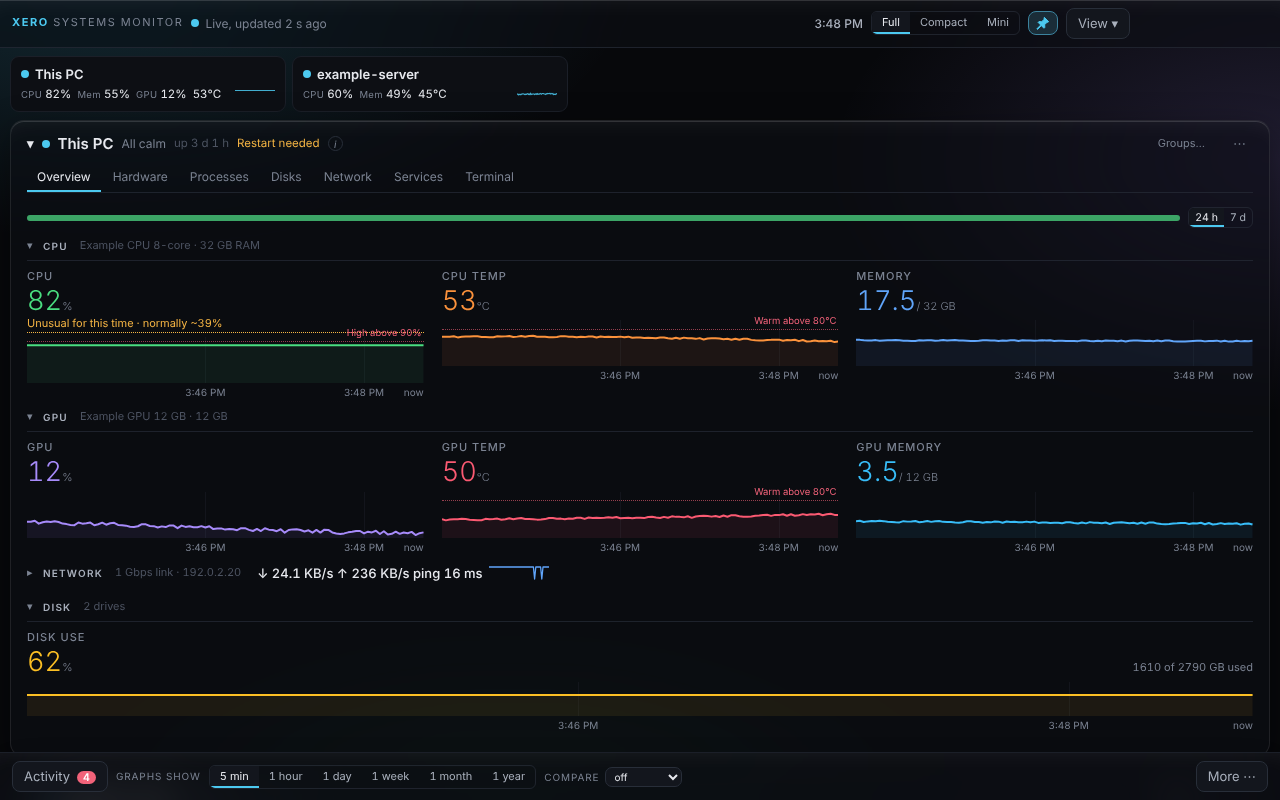
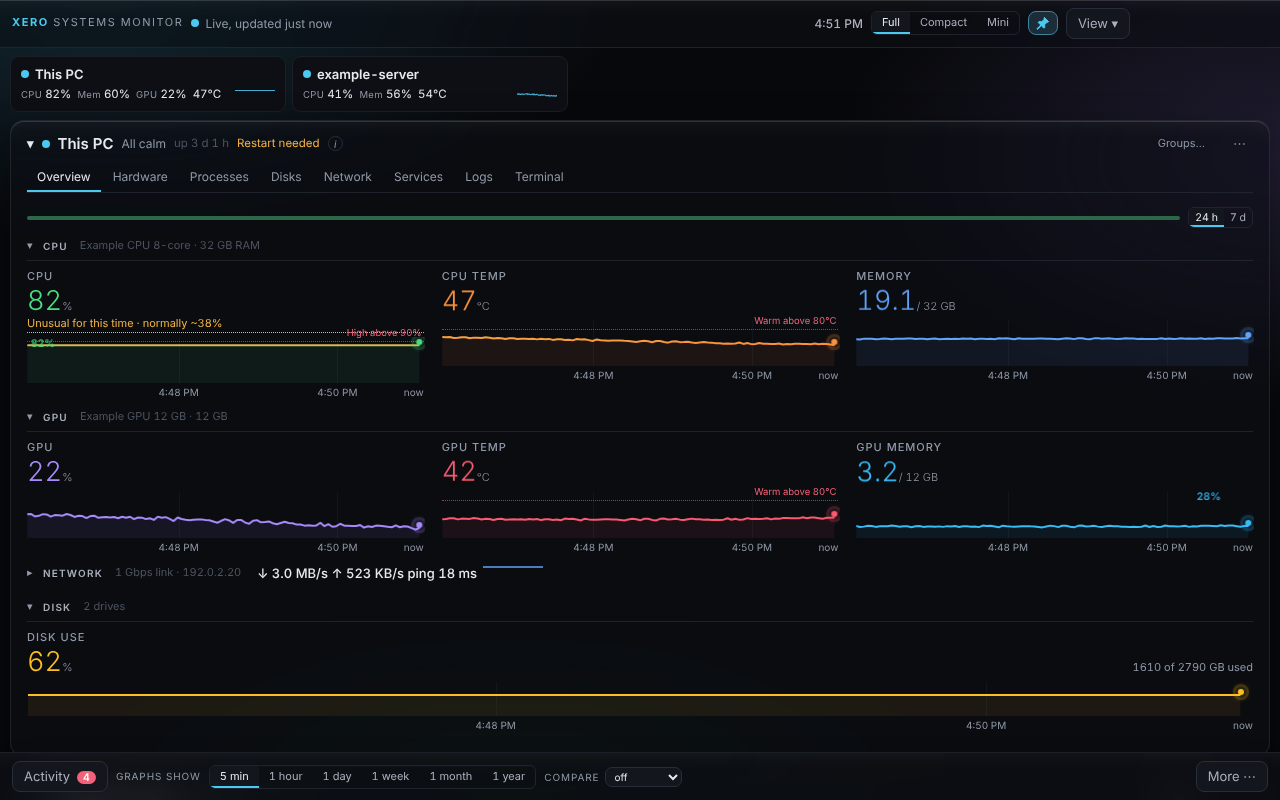
Motion pack, graphs: Motion setting, rolling numbers, sliding points, glow, peak label, heat line, range stretch
Claude-Session: https://claude.ai/code/session_0135roDSyKmVbufXTNSNLj3P

diff --git a/app/src/Chart.jsx b/app/src/Chart.jsx
@@ -6,6 +6,9 @@ import { clipSeries, zoomRange, isClick } from "./graphTools.js";
 import { setZoom } from "./graphView.js";
 import { seriesPaths } from "./theme/graphStyle.js";
 import useGraphLook from "./theme/useGraphLook.js";
+import useChartFx from "./useChartFx.js";
+import ChartMarks from "./ChartMarks.jsx";
+import { heatStops, newest } from "./chartFx.js";
 // Full-size graph with hover readout. The hover is moved straight in the DOM (no React render per mouse move).
 function nearest(pts, t) {
   let lo = 0, hi = pts.length - 1;
@@ -13,7 +16,7 @@ function nearest(pts, t) {
   return Math.abs(pts[lo][0] - t) <= Math.abs(pts[hi][0] - t) ? pts[lo] : pts[hi];
 }
 function Chart({ series, t0, t1, max, unit = "", fmt, thr, thrLabel, range, marks = [], group, title, cmp, cmpLabel = "", zoomable = true, live = true, onPick }) {
-  const W = 600, H = 150, look = useGraphLook(), root = useRef(null), x = useRef(null), sel = useRef(null), raf = useRef(0), cx = useRef(0), cy = useRef(0), downAt = useRef(null);
+  const W = 600, H = 150, look = useGraphLook(), root = useRef(null), x = useRef(null), sel = useRef(null), raf = useRef(0), cx = useRef(0), cy = useRef(0), downAt = useRef(null), svg = useRef(null), layer = useRef(null);
   const top = useMemo(() => max || Math.max(1, ...series.flatMap(s => s.pts.map(p => p[1])), ...(cmp || []).map(p => p[1])) * 1.15, [series, max, cmp]);
   const X = t => Math.max(0, Math.min(W, ((t - t0) / (t1 - t0)) * W)).toFixed(1);
   const line = pts => pts.map(([t, v], i) => (i ? "L" : "M") + X(t) + " " + (H - Math.min(1, v / top) * H).toFixed(1)).join("");
@@ -23,7 +26,9 @@ function Chart({ series, t0, t1, max, unit = "", fmt, thr, thrLabel, range, mark
   const f = fmt || (v => v.toFixed(0) + unit);
   const ticks = axisTicks(t0, t1, 3), pct = t => ((t - t0) / (t1 - t0)) * 100;
   const latest = useRef(); latest.current = { series, f, t0, t1, cmp, cmpLabel };
-  const id = useId(), g = group || id, color0 = series[0]?.color;
+  const id = useId(), g = group || id, color0 = series[0]?.color, gid = "heat" + id.replace(/\W/g, "");
+  const heat = series.length === 1 && look.style !== "bars" && thr != null ? heatStops(thr, top) : null, tip = series[0]?.pts.length ? newest(series[0].pts, t0, t1) : null;   // a single line turns amber toward its limit and red above it
+  useChartFx([svg, layer], { t0, t1, pts: series[0]?.pts, last: tip?.v, thr, ready: !!paths[0], root, layer });
   useEffect(() => join(g, id, {   // this graph's side of the shared hover
     title: title || series[0]?.name, color: color0, el: () => root.current,
     value: t => { const { series: ss, f: ff } = latest.current; const hit = ss.filter(s => s.pts.length).map(s => (ss.length > 1 ? s.name + " " : "") + ff(nearest(s.pts, t)[1])); const c = latest.current.cmp; if (c?.length && hit.length && t >= c[0][0] && t <= c[c.length - 1][0]) hit.push(latest.current.cmpLabel + " " + ff(nearest(c, t)[1])); return hit.length ? hit.join(" · ") : null; },
@@ -56,11 +61,13 @@ function Chart({ series, t0, t1, max, unit = "", fmt, thr, thrLabel, range, mark
       <div className={"chart" + (onPick ? " pick" : "")} ref={root} onMouseMove={move} onMouseLeave={leave} onMouseDown={e => { downAt.current = [e.clientX, e.clientY]; down(e); }} onClick={pick} onDoubleClick={() => zoomable && setZoom(g, null)} role="img" aria-label={series.map(s => s.name).join(" and ")}>
         {ticks.map(t => <i key={t} className="vg" style={{ left: pct(t) + "%" }} />)}
         {[.5, 1].map(q => <div key={q} className="gl" style={{ bottom: q * 100 + "%" }}><span>{f(top * q).replace(/\.\d/, "")}</span></div>)}
-        <svg viewBox={`0 0 ${W} ${H}`} preserveAspectRatio="none">
+        <svg ref={svg} viewBox={`0 0 ${W} ${H}`} preserveAspectRatio="none">
+          {heat && <defs><linearGradient id={gid} gradientUnits="userSpaceOnUse" x1="0" y1={H} x2="0" y2="0">{heat.map(([o, c], i) => <stop key={i} offset={o} style={{ stopColor: c === "own" ? color0 : c === "warn" ? "var(--warn)" : "var(--bad)" }} />)}</linearGradient></defs>}
           {paths[0] && paths[0].a && (series.length === 1 || look.style === "area") && [...series].reverse().map((s, i) => { const p = paths[series.length - 1 - i]; return p && <path key={s.name} d={p.a} style={{ fill: s.color, stroke: "none", opacity: "var(--area-op)" }} />; })}
           {cmpPath && <path className="cmp" d={cmpPath} style={{ stroke: series[0].color }} />}
-          {[...series].reverse().map((s, i) => { const p = paths[series.length - 1 - i]; return p && <path key={s.name} d={p.l} className={look.style === "bars" ? "bars" : undefined} style={look.style === "bars" ? { fill: s.color } : { stroke: s.color }} />; })}
+          {[...series].reverse().map((s, i) => { const p = paths[series.length - 1 - i]; return p && <path key={s.name} d={p.l} className={look.style === "bars" ? "bars" : undefined} style={look.style === "bars" ? { fill: s.color } : { stroke: heat ? `url(#${gid})` : s.color }} />; })}
         </svg>
+        <ChartMarks layer={layer} series={series} t0={t0} t1={t1} top={top} f={f} />
         {thr != null && thr <= top && <div className="thr" style={{ bottom: (thr / top) * 100 + "%" }}><span>{thrLabel}</span></div>}
         {marks.map((m, i) => m.t >= t0 && m.t <= t1 && <div key={i} className={"ev " + (m.kind || "")} style={{ left: ((m.t - t0) / (t1 - t0)) * 100 + "%" }}><b data-tip={m.text} /></div>)}
         <div className="x" ref={x} /><div className="sel" ref={sel} />

diff --git a/app/src/theme/model.js b/app/src/theme/model.js
@@ -5,7 +5,8 @@ import { FONT_IDS, fontStack } from "./fonts.js";
 //     colors: { acc, bg, card, fg, dim, line, warn, bad, good, cpu, temp, ... },
 //     graph:  { style, width, grid, smooth, limits },
 //     size:   { card, density, scale },
-//     glass:  "off" | "subtle" | "full" }
+//     glass:  "off" | "subtle" | "full",
+//     motion: "off" | "subtle" | "full" }
 export const TEXT_LEVELS = [
   { id: "machine", label: "Machine name", size: 15 }, { id: "section", label: "Section header", size: 10 }, { id: "group", label: "Group header", size: 10 },
   { id: "number", label: "Big numbers", size: 16 }, { id: "label", label: "Labels", size: 13 }, { id: "small", label: "Small text", size: 11 },
@@ -18,6 +19,9 @@ export const CARD_SIZES = [["small", "Small"], ["medium", "Medium"], ["large", "
 export const DENSITIES = [["compact", "Compact"], ["comfortable", "Comfortable"], ["spacious", "Spacious"]];
 export const GLASS_LEVELS = [["off", "Off (flat)"], ["subtle", "Subtle"], ["full", "Full"]];
 export const DEFAULT_GLASS = "subtle";
+// Motion: Full is every effect, Subtle keeps only the quick functional ones (folds, slides), Off is none. The window also stops all motion when Windows asks for less.
+export const MOTION_LEVELS = [["full", "Full"], ["subtle", "Subtle"], ["off", "Off"]];
+export const DEFAULT_MOTION = "full";
 export const DEFAULT_GRAPH = Object.freeze({ style: "line", width: 2, grid: true, smooth: false, limits: true });
 export const DEFAULT_SIZE = Object.freeze({ card: "medium", density: "comfortable", scale: 1 });
 const GRAPH_K = { small: 0.75, medium: 1, large: 1.4 }, DENS_K = { compact: 0.85, comfortable: 1, spacious: 1.2 }, AREA_OP = { line: 0.08, area: 0.3, bars: 0 };
@@ -62,13 +66,14 @@ export function normLook(raw) {
   const s = r.size || {}, size = keep({ card: oneOf(s.card, CARD_SIZES.map(x => x[0])), density: oneOf(s.density, DENSITIES.map(x => x[0])), scale: num(s.scale, SCALE_MIN, SCALE_MAX) });
   for (const [k, v] of [["text", text], ["colors", colors], ["graph", graph], ["size", size]]) if (nonEmpty(v)) out[k] = v;
   const glass = oneOf(r.glass, GLASS_LEVELS.map(x => x[0])); if (glass) out.glass = glass;
+  const motion = oneOf(r.motion, MOTION_LEVELS.map(x => x[0])); if (motion) out.motion = motion;
   return out;
 }
 // `over` on top of `base`, section by section (a text level is merged field by field).
 export function mergeLook(base, over) {
   const a = normLook(base), b = normLook(over), text = { ...a.text };
   for (const id of Object.keys(b.text || {})) text[id] = { ...text[id], ...b.text[id] };
-  return normLook({ text, colors: { ...a.colors, ...b.colors }, graph: { ...a.graph, ...b.graph }, size: { ...a.size, ...b.size }, glass: b.glass ?? a.glass });
+  return normLook({ text, colors: { ...a.colors, ...b.colors }, graph: { ...a.graph, ...b.graph }, size: { ...a.size, ...b.size }, glass: b.glass ?? a.glass, motion: b.motion ?? a.motion });
 }
 // A copy of `look` with the value at `path` set; undefined removes it and tidies empty parents away.
 export function setPath(look, path, value) {
@@ -80,6 +85,7 @@ export function setPath(look, path, value) {
 export const getPath = (look, path) => path.reduce((o, k) => (o == null ? undefined : o[k]), look);
 export const graphOf = look => ({ ...DEFAULT_GRAPH, ...look?.graph });
 export const glassOf = look => look?.glass || DEFAULT_GLASS;
+export const motionOf = look => look?.motion || DEFAULT_MOTION;
 export const sizeOf = look => ({ ...DEFAULT_SIZE, ...look?.size });
 
 // ---- CSS ----
@@ -97,7 +103,7 @@ export function lookToCss(look, { large = false } = {}) {
   const g = graphOf(look), s = sizeOf(look), scale = Math.round((large ? LARGE_SCALE : 1) * s.scale * 1000) / 1000;
   Object.assign(vars, { "--line-w": String(g.width), "--area-op": String(AREA_OP[g.style]), "--graph-k": String(GRAPH_K[s.card]), "--dens": String(DENS_K[s.density]) });
   if (scale !== (large ? LARGE_SCALE : 1)) vars["--scale"] = String(scale);
-  return { vars, attrs: { "data-grid": g.grid ? "on" : "off", "data-limits": g.limits ? "on" : "off", "data-glass": glassOf(look) } };
+  return { vars, attrs: { "data-grid": g.grid ? "on" : "off", "data-limits": g.limits ? "on" : "off", "data-glass": glassOf(look), "data-motion": motionOf(look) } };
 }
 
 // ---- contrast ----

diff --git a/app/src/useChartFx.js b/app/src/useChartFx.js
@@ -1,0 +1,27 @@
+import { useLayoutEffect, useRef } from "react";
+import { play, motionFull, SLOW_MS, MOTION_MS, PULSE_MS } from "./motion.js";
+import { fxKind, CROSS_GLOW_MS, STRETCH_MS, WAIT_MS } from "./chartFx.js";
+// The graph's motion, all played on the compositor (transform / opacity / clip) so a poll never makes the page re-layout:
+// the picture slides left as time passes (new points enter from the right), stretches when the range changes, draws in from the left
+// when it first has data or when the new range's data arrives, and glows the card edge when the line crosses its limit.
+// `els` are the elements that move together (the svg and the marks layer); `pts` is the first series' data; `last` its newest value.
+export default function useChartFx(els, { t0, t1, pts, last, thr, ready, root, layer }) {
+  const prev = useRef(null), waiting = useRef(false), seen = useRef(pts), over = useRef(false), glow = useRef(0), wt = useRef(0);
+  useLayoutEffect(() => {
+    const p = prev.current, list = els.map(r => r.current).filter(Boolean), kind = fxKind(p, { t0, t1, ready });
+    prev.current = { t0, t1, ready };
+    const drawIn = () => { for (const el of list) play(el, [{ clipPath: "inset(0 100% 0 0)" }, { clipPath: "inset(0 0 0 0)" }], SLOW_MS, { full: true }) || play(el, [{ opacity: 0.3 }, { opacity: 1 }], MOTION_MS); };
+    if (kind === "first") drawIn();
+    else if (kind === "stretch") { waiting.current = true; clearTimeout(wt.current); wt.current = setTimeout(() => { waiting.current = false; }, WAIT_MS); for (const el of list) play(el, [{ transform: `scaleX(${(t1 - t0) / (p.t1 - p.t0)})`, opacity: 0.5 }, { transform: "none", opacity: 1 }], STRETCH_MS); }
+    else if (kind === "slide") { const s = ((t1 - p.t1) / (t1 - t0)) * 100; for (const el of list) play(el, [{ transform: `translateX(${s}%)` }, { transform: "none" }], SLOW_MS); }
+    if (kind === "slide" || kind === "first") for (const ring of layer.current?.querySelectorAll("u") || []) play(ring, [{ transform: "scale(1)", opacity: 0.8 }, { transform: "scale(3.2)", opacity: 0 }], PULSE_MS, { full: true });   // one soft pulse per new point
+    if (waiting.current && pts !== seen.current && kind !== "stretch") { waiting.current = false; drawIn(); }
+    seen.current = pts;
+  }, [t0, t1, pts, ready]);   // eslint-disable-line react-hooks/exhaustive-deps -- `els` are refs
+  useLayoutEffect(() => {
+    const now = thr != null && last != null && last >= thr, card = root.current?.closest(".card");
+    if (now && !over.current && motionFull() && card) { card.classList.add("edge-glow"); clearTimeout(glow.current); glow.current = setTimeout(() => card.classList.remove("edge-glow"), CROSS_GLOW_MS); }
+    over.current = now;
+  }, [last, thr]);   // eslint-disable-line react-hooks/exhaustive-deps -- `root` is a ref
+  useLayoutEffect(() => () => { clearTimeout(glow.current); clearTimeout(wt.current); }, []);
+}

diff --git a/app/src/Panel.jsx b/app/src/Panel.jsx
@@ -5,6 +5,7 @@ import { shiftSeries } from "./graphTools.js";
 import { useCompare } from "./graphView.js";
 import Chart from "./Chart.jsx";
 import { metricVar } from "./colors.js";
+import Roll from "./Roll.jsx";
 // One graph card. Module-level and memoised so charts keep their state between polls.
 // Every prop is a number, a string, or an object that keeps its identity between polls, so memo can skip a graph whose numbers did not change.
 // `val` is the big number and `vu` the small unit after it; `fcText` (with `fcWarn`, `fcTip`) is the disk forecast chip; `children` go under the graph.
@@ -15,7 +16,7 @@ const Panel = memo(function Panel({ title, val, vu, warn, sm, fcText, fcWarn, fc
   const cmp = useMemo(() => (off && old ? shiftSeries(old, off, t0, t1) : null), [off, old, t0, t1]);   // yesterday / last week, moved onto today's clock
   return (
     <div className={"panel " + cls + (loading ? " skel" : "")} style={{ "--c": metricVar(k) }} ref={card}>
-      <div className="ph"><h4><button className="ttl" onClick={() => setBig(true)} data-tip="Open this graph full window">{title}</button></h4><SaveButtons title={title} series={series} card={card} />{val != null && <span className={"now" + (warn ? " warn" : "")}>{val}{vu && <small>{vu}</small>}</span>}{usual != null && <span className="unusual" data-tip="Higher than this machine usually runs at this time of day (compared with the same hour over the last 7 days)">Unusual for this time · normally ~{usual}{unit?.trim()}</span>}{sm && <span className="sum">{sm}</span>}{fcText && <span className={"sum fc" + (fcWarn ? " warn" : "")} data-tip={fcTip}>{fcText}</span>}</div>
+      <div className="ph"><h4><button className="ttl" onClick={() => setBig(true)} data-tip="Open this graph full window">{title}</button></h4><SaveButtons title={title} series={series} card={card} />{val != null && <span className={"now" + (warn ? " warn" : "")}><Roll value={val} />{vu && <small>{vu}</small>}</span>}{usual != null && <span className="unusual" data-tip="Higher than this machine usually runs at this time of day (compared with the same hour over the last 7 days)">Unusual for this time · normally ~{usual}{unit?.trim()}</span>}{sm && <span className="sum">{sm}</span>}{fcText && <span className={"sum fc" + (fcWarn ? " warn" : "")} data-tip={fcTip}>{fcText}</span>}</div>
       <Chart series={series} t0={t0} t1={t1} max={max} unit={unit} fmt={fmt} thr={thr} thrLabel={thrLabel} range={range} marks={mk} group={group} title={title} cmp={cmp} cmpLabel={off === 86400 ? "yesterday" : "last week"} live={live} onPick={busy ? pick : undefined} />
       {children}
       {pop && <BusyPopover machine={group} {...pop} range={range} onClose={shut} />}

diff --git a/app/test/chartFx.test.js b/app/test/chartFx.test.js
@@ -1,0 +1,49 @@
+import test from "node:test";
+import assert from "node:assert/strict";
+import { fxKind, heatStops, peakOf, newest, rollDir } from "../src/chartFx.js";
+import { motionLevel, motionFull, motionMs, MOTION_MS } from "../src/motion.js";
+
+test("graph motion: first draw, slide, stretch on a range change, nothing otherwise", () => {
+  const was = { t0: 0, t1: 300, ready: true };
+  assert.equal(fxKind(null, { t0: 0, t1: 300, ready: false }), "");
+  assert.equal(fxKind(null, { t0: 0, t1: 300, ready: true }), "first");
+  assert.equal(fxKind({ ...was, ready: false }, { t0: 0, t1: 300, ready: true }), "first");
+  assert.equal(fxKind(was, { t0: 3, t1: 303, ready: true }), "slide");
+  assert.equal(fxKind(was, { t0: 0, t1: 300, ready: true }), "");
+  assert.equal(fxKind(was, { t0: -3300, t1: 300, ready: true }), "stretch");
+  assert.equal(fxKind(was, { t0: 200, t1: 500, ready: true }), "", "a long sleep just redraws");
+  assert.equal(fxKind({ t0: 5, t1: 5, ready: true }, { t0: 5, t1: 8, ready: true }), "");
+});
+
+test("heat stops: own colour, warming toward the limit, red above it", () => {
+  assert.deepEqual(heatStops(90, 100), [[0, "own"], [0.54, "own"], [0.9, "warn"], [0.9, "bad"], [1, "bad"]]);
+  assert.equal(heatStops(150, 100), null);
+  assert.equal(heatStops(0, 100), null);
+});
+
+test("peak and newest points inside the window", () => {
+  const a = [[1, 5], [2, 9], [3, 4]], b = [[2, 12], [9, 99]];
+  assert.deepEqual(peakOf([a, b], 0, 5), { t: 2, v: 12, i: 1 });
+  assert.equal(peakOf([[]], 0, 5), null);
+  assert.deepEqual(newest(a, 0, 5), { t: 3, v: 4 });
+  assert.deepEqual(newest(a, 0, 2.5), { t: 2, v: 9 });
+  assert.equal(newest(a, 3.5, 5), null);
+  assert.equal(newest([], 0, 5), null);
+});
+
+test("a number rolls up when it grows and down when it shrinks", () => {
+  assert.equal(rollDir("10", "20"), 1);
+  assert.equal(rollDir("20", "10"), -1);
+  assert.equal(rollDir("4.5 KB/s", "4.1 KB/s"), -1);
+  assert.equal(rollDir("–", "5"), 1);
+  assert.equal(rollDir(null, "5"), 1);
+});
+
+test("the Motion setting: system reduced motion wins; Off and Subtle are read from the page", () => {
+  assert.equal(motionLevel(false, undefined), "full");
+  assert.equal(motionLevel(false, "subtle"), "subtle");
+  assert.equal(motionLevel(false, "off"), "off");
+  assert.equal(motionLevel(true, "full"), "off");
+  assert.equal(motionFull("full"), true); assert.equal(motionFull("subtle"), false);
+  assert.equal(motionMs(false, "off"), 0); assert.equal(motionMs(false, "subtle"), MOTION_MS); assert.equal(motionMs(true), 0);
+});

diff --git a/app/test/theme.test.js b/app/test/theme.test.js
@@ -62,10 +62,10 @@ test("lookToCss gives variables, derived colours, text levels, graph and size va
   assert.equal(vars["--crit"], "#ff0000"); assert.equal(vars["--bad"], "#ff0000");
   assert.equal(vars["--font-machine"], '"Lato", system-ui, sans-serif'); assert.equal(vars["--size-machine"], "calc(18px * var(--scale))"); assert.equal(vars["--weight-machine"], "700");
   assert.equal(vars["--line-w"], "3"); assert.equal(vars["--area-op"], "0.3"); assert.equal(vars["--graph-k"], "1.4"); assert.equal(vars["--dens"], "0.85"); assert.equal(vars["--scale"], "1.1");
-  assert.deepEqual(attrs, { "data-grid": "off", "data-limits": "off", "data-glass": "subtle" });
+  assert.deepEqual(attrs, { "data-grid": "off", "data-limits": "off", "data-glass": "subtle", "data-motion": "full" });
   const plain = lookToCss({}), large = lookToCss({}, { large: true }), both = lookToCss({ size: { scale: 1.5 } }, { large: true });
   assert.equal(plain.vars["--scale"], undefined); assert.equal(large.vars["--scale"], undefined); assert.equal(both.vars["--scale"], "1.74");
-  assert.equal(plain.vars["--area-op"], "0.08"); assert.deepEqual(plain.attrs, { "data-grid": "on", "data-limits": "on", "data-glass": "subtle" });
+  assert.equal(plain.vars["--area-op"], "0.08"); assert.deepEqual(plain.attrs, { "data-grid": "on", "data-limits": "on", "data-glass": "subtle", "data-motion": "full" });
   assert.equal(lookToCss({ colors: { acc: "#0a0a0a" } }).vars["--on-acc"], "#ffffff");
   assert.equal(lookToCss({ colors: { fg: "#ffffff", dim: "#999999", line: "#222222" } }).vars["--line2"].startsWith("color-mix"), true);
 });
@@ -116,4 +116,12 @@ test("seriesPaths: line, smooth, area and bars", () => {
   assert.ok(!/ -\d/.test(wild), "curves never leave the plot");
   const bars = seriesPaths(pts, { ...o, style: "bars" });
   assert.equal(bars.a, ""); assert.equal(bars.l.split("Z").length - 1, 3); assert.match(bars.l, /^M-3\.5 100\.0V90\.0h7\.0V100\.0Z/);
+});
+
+test("motion defaults to full, is written as data-motion, and is cleaned and merged", () => {
+  assert.equal(lookToCss({}).attrs["data-motion"], "full");
+  assert.equal(lookToCss({ motion: "off" }).attrs["data-motion"], "off");
+  assert.equal(normLook({ motion: "wild" }).motion, undefined);
+  assert.equal(mergeLook({ motion: "subtle" }, {}).motion, "subtle");
+  assert.equal(mergeLook({ motion: "subtle" }, { motion: "off" }).motion, "off");
 });

diff --git a/app/src/chartFx.js b/app/src/chartFx.js
@@ -1,0 +1,35 @@
+// The pure decisions behind the graph's motion.
+export const CROSS_GLOW_MS = 1800, STRETCH_MS = 420, WAIT_MS = 4000;   // WAIT_MS: how long after a range change the new data may still arrive and draw in
+const MAX_SLIDE = 0.25;   // a jump of more than a quarter of the graph (the window was asleep) just redraws
+const SAME_SPAN = 0.02;   // a span that changes by less than 2% is the same range
+// What should the graph do now? `p` is what it drew last time ({ t0, t1, ready }) or null.
+// "first": it just got data. "stretch": the range changed. "slide": time moved on. "": nothing.
+export function fxKind(p, { t0, t1, ready }) {
+  if (!ready) return "";
+  if (!p || !p.ready) return "first";
+  const span = t1 - t0, was = p.t1 - p.t0;
+  if (!(span > 0) || !(was > 0)) return "";
+  if (Math.abs(span / was - 1) > SAME_SPAN) return "stretch";
+  return t1 > p.t1 && (t1 - p.t1) / span < MAX_SLIDE ? "slide" : "";
+}
+// Which way a number rolls: 1 when it went up (the new text comes in from below), -1 when it went down. Text that is not a number goes up.
+const num = t => { const m = /^-?\d+(?:\.\d+)?/.exec(t || ""); return m ? +m[0] : null; };
+export function rollDir(a, b) { const x = num(a), y = num(b); return x != null && y != null && y < x ? -1 : 1; }
+// The stops of a line's heat colour, as [offset 0 to 1 of the graph height, which colour]: the line's own colour, warming toward the limit, red above it.
+const WARM_FROM = 0.6;   // the warming starts at 60% of the limit
+export function heatStops(thr, top) {
+  const f = thr / top;
+  if (!(f > 0) || f > 1) return null;
+  return [[0, "own"], [f * WARM_FROM, "own"], [f, "warn"], [f, "bad"], [1, "bad"]];
+}
+// The highest point inside [t0, t1] of several series ([[t, v], ...] each): { t, v, i } (i is the series) or null.
+export function peakOf(seriesPts, t0, t1) {
+  let best = null;
+  seriesPts.forEach((pts, i) => { for (const [t, v] of pts) if (t >= t0 && t <= t1 && (!best || v > best.v)) best = { t, v, i }; });
+  return best;
+}
+// The newest point inside [t0, t1] of one series, or null.
+export function newest(pts, t0, t1) {
+  for (let i = pts.length - 1; i >= 0; i--) if (pts[i][0] <= t1) return pts[i][0] >= t0 ? { t: pts[i][0], v: pts[i][1] } : null;
+  return null;
+}

diff --git a/app/src/customize/CustomGraphs.jsx b/app/src/customize/CustomGraphs.jsx
@@ -1,4 +1,4 @@
-import { GRAPH_STYLES, LINE_MIN, LINE_MAX, CARD_SIZES, DENSITIES, SCALE_MIN, SCALE_MAX, GLASS_LEVELS, graphOf, sizeOf, glassOf } from "../theme/model.js";
+import { GRAPH_STYLES, LINE_MIN, LINE_MAX, CARD_SIZES, DENSITIES, SCALE_MIN, SCALE_MAX, GLASS_LEVELS, MOTION_LEVELS, graphOf, sizeOf, glassOf, motionOf } from "../theme/model.js";
 import { Reset, Row, Seg, Toggle } from "./controls.jsx";
 const WIDTHS = Array.from({ length: LINE_MAX - LINE_MIN + 1 }, (_, i) => [LINE_MIN + i, String(LINE_MIN + i)]);
 // Graphs tab: how graphs are drawn.
@@ -24,6 +24,8 @@ export function CustomSize({ c }) {
       <Row label="Density"><Seg label="Density" value={s.density} options={DENSITIES} onChange={v => set("density", v)} /><Reset show={c.has(["size", "density"])} what="density" onClick={() => c.reset(["size", "density"])} /></Row>
       <Row label="Glass"><Seg label="Glass" value={glassOf(c.look)} options={GLASS_LEVELS} onChange={v => c.edit(["glass"], v)} /><Reset show={c.has(["glass"])} what="glass" onClick={() => c.reset(["glass"])} /></Row>
       <p className="chint">Frosted cards, menus and bars. Off is plain and flat. It also turns off by itself when Windows asks for less transparency.</p>
+      <Row label="Motion"><Seg label="Motion" value={motionOf(c.look)} options={MOTION_LEVELS} onChange={v => c.edit(["motion"], v)} /><Reset show={c.has(["motion"])} what="motion" onClick={() => c.reset(["motion"])} /></Row>
+      <p className="chint">Full: numbers roll, graphs slide and glow, cards glide. Subtle: only quick folds and fades. Off: nothing moves. It also turns off by itself when Windows asks for less motion.</p>
       <Row label="Text scale"><input type="range" min={SCALE_MIN} max={SCALE_MAX} step="0.05" value={s.scale} aria-label="Text scale" onChange={e => set("scale", +e.target.value)} /><code>{Math.round(s.scale * 100)}%</code><Reset show={c.has(["size", "scale"])} what="text scale" onClick={() => c.reset(["size", "scale"])} /></Row>
     </div>);
 }

diff --git a/app/src/motion.js b/app/src/motion.js
@@ -1,6 +1,21 @@
 // The one place that says how long the window's open/close motion takes (keep in step with --dur in styles/tokens.css).
 export const MOTION_MS = 180;
+// How long the bigger effects take (a number rolling, a graph sliding or drawing in, a card gliding).
+export const SLOW_MS = 480;
+// A soft ring pulse on the newest point of a graph.
+export const PULSE_MS = 800;
 // Does the person want less motion? (Guarded: tests and old webviews may have no matchMedia.)
 export const prefersReduced = () => typeof window !== "undefined" && !!window.matchMedia?.("(prefers-reduced-motion: reduce)").matches;
-// How long to wait for a fold or fade to finish: nothing when motion is reduced.
-export const motionMs = (reduced = prefersReduced()) => (reduced ? 0 : MOTION_MS);
+// The Motion setting as written on <html> by Customize: "full" (default), "subtle" or "off". Reduced motion in the system wins and gives "off".
+export function motionLevel(reduced = prefersReduced(), attr = typeof document !== "undefined" ? document.documentElement.dataset.motion : undefined) {
+  return reduced || attr === "off" ? "off" : attr === "subtle" ? "subtle" : "full";
+}
+// Should the bigger, decorative effects (glow, roll, overshoot, glide) run?
+export const motionFull = (level = motionLevel()) => level === "full";
+// How long to wait for a fold or fade to finish: nothing when motion is off.
+export const motionMs = (reduced = prefersReduced(), attr) => (motionLevel(reduced, attr) === "off" ? 0 : MOTION_MS);
+// Play a short transform/opacity animation on an element (runs on the compositor). Does nothing when motion is off or the browser has no animations.
+export function play(el, frames, ms = SLOW_MS, { full = false, easing = "cubic-bezier(.2,.7,.2,1)" } = {}) {
+  if (!el?.animate || (typeof document !== "undefined" && document.hidden) || motionLevel() === "off" || (full && !motionFull())) return null;
+  return el.animate(frames, { duration: ms, easing });
+}

diff --git a/app/src/styles/chartfx.css b/app/src/styles/chartfx.css
@@ -1,0 +1,21 @@
+/* Graph motion: the layer with the newest-point glow (a ring pulses once per new point, never in a loop) and the peak label, the slide/stretch origin, the card-edge glow and the fade-in of the compare line.
+   Only transform and opacity move per poll. Subtle keeps the functional slide and drops the glow and pulse; Off and reduced motion stop everything (see the end of motion.css). */
+.chart svg,.chart .fxl{transform-origin:100% 50%;will-change:transform}
+.chart .fxl{position:absolute;inset:0;overflow:hidden;pointer-events:none}
+.chart .head{position:absolute;width:var(--sz-6);height:var(--sz-6);margin:calc(var(--sz-6) / -2) 0 0 calc(var(--sz-6) / -2);border-radius:50%;background:var(--c,var(--acc));box-shadow:0 0 var(--sz-8) var(--c,var(--acc))}
+.chart .head u{position:absolute;inset:0;border-radius:50%;border:1px solid var(--c,var(--acc));opacity:0}
+.chart .peak{position:absolute;transform:translate(-50%,calc(-100% - var(--sz-6)));font-size:var(--fs-10-5);font-weight:600;white-space:nowrap;opacity:.9}
+.chart .peak.l{transform:translate(0,calc(-100% - var(--sz-6)))}
+.chart .peak.r{transform:translate(-100%,calc(-100% - var(--sz-6)))}
+.chart .peak.low{transform:translate(-50%,var(--sz-6))}
+.chart .peak.low.l{transform:translate(0,var(--sz-6))}
+.chart .peak.low.r{transform:translate(-100%,var(--sz-6))}
+.diskcard .peak{display:none}
+.chart path.cmp{animation:fadein .7s var(--ease) both}
+.card{position:relative}
+.card.edge-glow::after{content:"";position:absolute;inset:-1px;border-radius:inherit;pointer-events:none;box-shadow:0 0 0 1px var(--bad),0 0 var(--sz-18) var(--bad-glow);animation:edgeglow 1.8s ease-out both}
+html[data-motion="subtle"] .chart .head{box-shadow:none}
+html[data-motion="subtle"] .chart .head u{display:none}
+@keyframes edgeglow{0%{opacity:0}18%{opacity:1}100%{opacity:0}}
+.roll{display:inline-grid;font-variant-numeric:tabular-nums;overflow:hidden;vertical-align:bottom}
+.roll>span{grid-area:1/1}

diff --git a/app/src/Roll.jsx b/app/src/Roll.jsx
@@ -1,0 +1,21 @@
+import { memo, useLayoutEffect, useRef, useState } from "react";
+import { play, motionFull, SLOW_MS } from "./motion.js";
+import { rollDir } from "./chartFx.js";
+// A number that rolls like an odometer: the old text slides out and the new text slides in, up when the number went up and down when it went down.
+// Only transform and opacity move (Full motion only; otherwise the text just changes), so a poll never makes the page re-layout per frame.
+// `value` is text like "62", "4.1" or "317.2 KB/s".
+const ROLL_FRACTION = 0.6, SLIDE = 70;   // of the slow time; percent of the text height the text travels
+function Roll({ value }) {
+  const text = value == null ? "" : String(value), [from, setFrom] = useState(null), last = useRef(text), outEl = useRef(null), inEl = useRef(null);
+  if (text !== last.current) { const was = last.current; last.current = text; if (motionFull() && was) setFrom({ text: was, dir: rollDir(was, text) }); else if (from) setFrom(null); }
+  useLayoutEffect(() => {
+    if (!from) return undefined;
+    const ms = SLOW_MS * ROLL_FRACTION, d = from.dir, a = play(outEl.current, [{ transform: "none", opacity: 1 }, { transform: `translateY(${-d * SLIDE}%)`, opacity: 0 }], ms, { full: true });
+    play(inEl.current, [{ transform: `translateY(${d * SLIDE}%)`, opacity: 0 }, { transform: "none", opacity: 1 }], ms, { full: true });
+    const done = () => setFrom(null), t = setTimeout(done, ms + 40);
+    if (a) a.onfinish = done;
+    return () => clearTimeout(t);
+  }, [from]);
+  return <span className="roll"><span ref={inEl}>{text}</span>{from && <span className="rout" ref={outEl} aria-hidden="true">{from.text}</span>}</span>;
+}
+export default memo(Roll);

diff --git a/app/src/ChartMarks.jsx b/app/src/ChartMarks.jsx
@@ -1,0 +1,14 @@
+import { peakOf, newest } from "./chartFx.js";
+// The layer over a graph's line: a glowing dot on each newest point and a small floating label on the highest visible point.
+// It is one element so it slides with the line (see useChartFx); positions are percentages, so they need no measuring.
+const NEAR_NOW = 0.05;   // a peak this close to the newest point is not worth a second label
+export default function ChartMarks({ layer, series, t0, t1, top, f, peak = true }) {
+  const dots = series.map(s => ({ s, p: s.pts.length ? newest(s.pts, t0, t1) : null })).filter(d => d.p);
+  const top1 = peak ? peakOf(series.map(s => s.pts), t0, t1) : null, hi = top1 && top1.t < t1 - (t1 - t0) * NEAR_NOW ? top1 : null, at = p => ({ left: ((p.t - t0) / (t1 - t0)) * 100 + "%", bottom: Math.min(1, p.v / top) * 100 + "%" });
+  const q = hi ? (hi.t - t0) / (t1 - t0) : 0, edge = q < 0.1 ? " l" : q > 0.9 ? " r" : "", low = hi && hi.v / top > 0.8 ? " low" : "";
+  return (
+    <div className="fxl" ref={layer} aria-hidden="true">
+      {dots.map(({ s, p }) => <i key={s.name} className="head" style={{ ...at(p), "--c": s.color }}><u /></i>)}
+      {hi && <b className={"peak" + edge + low} style={{ ...at(hi), color: series[hi.i].color }}>{f(hi.v)}</b>}
+    </div>);
+}
